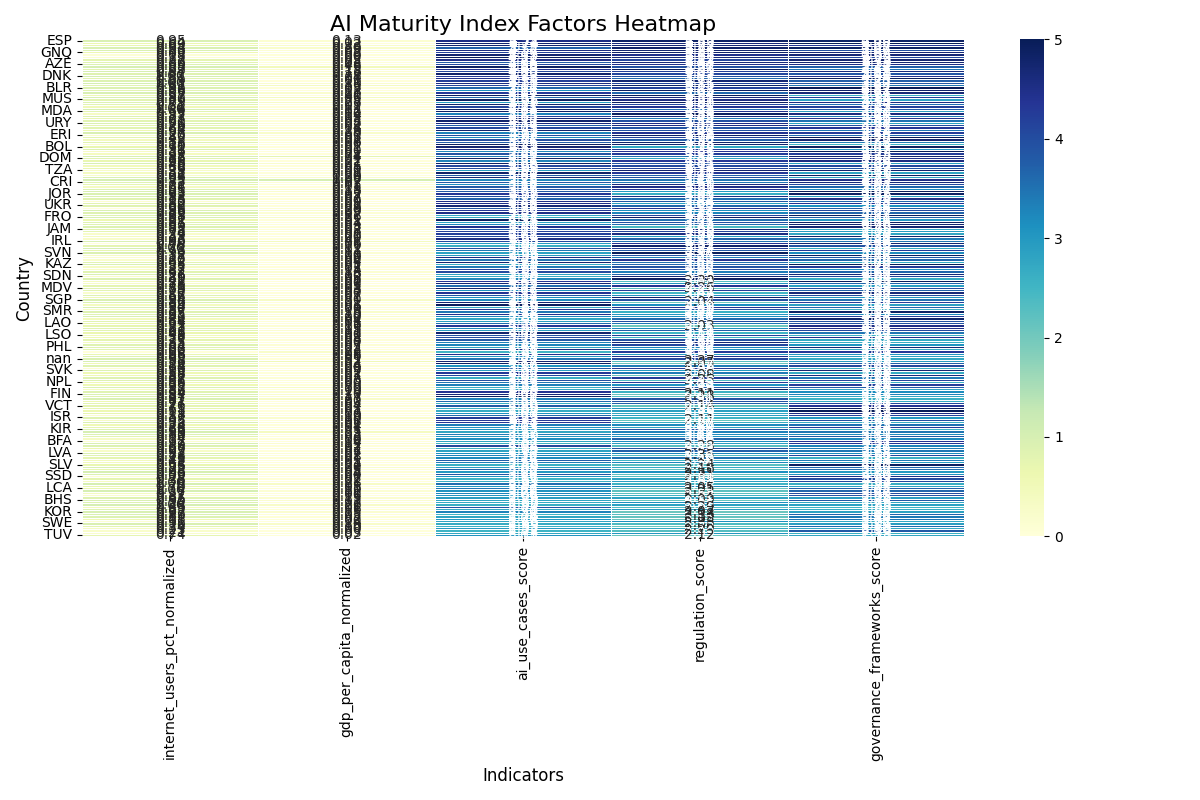
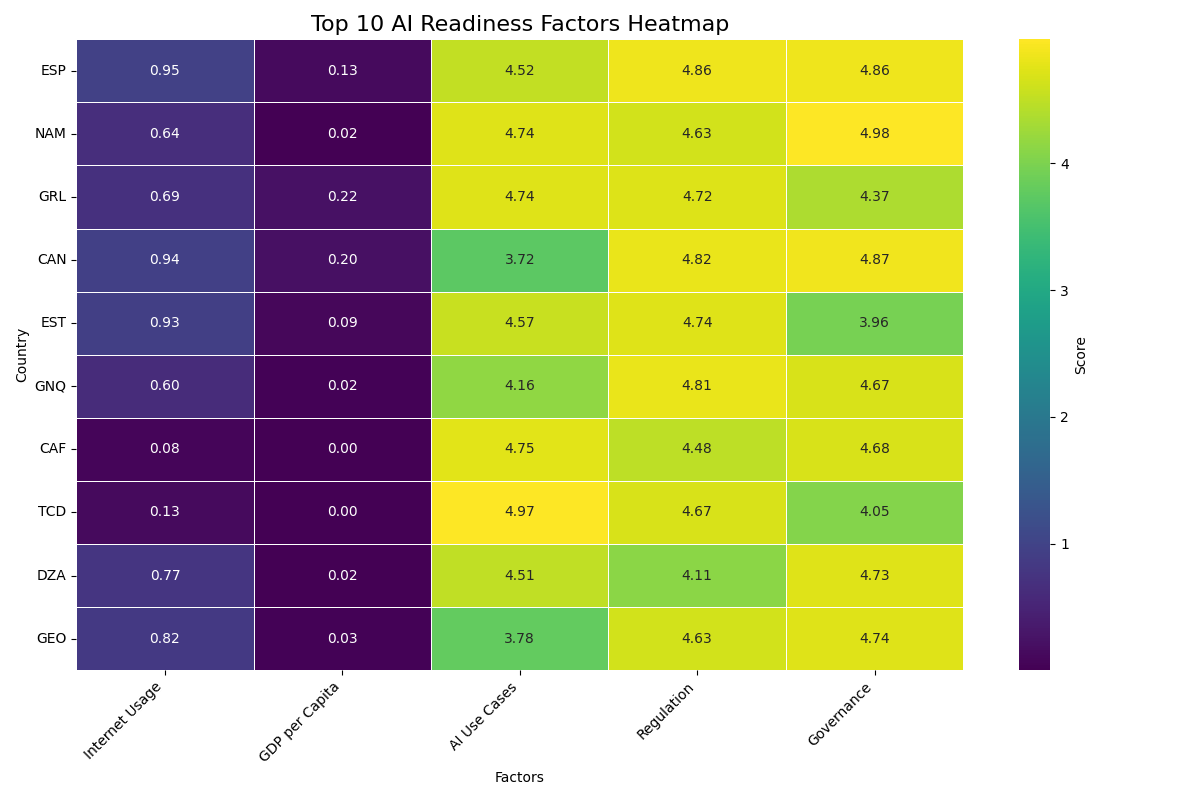
Advance Visualization

diff --git a/scripts/visualize_top10.py b/scripts/visualize_top10.py
@@ -1,0 +1,111 @@
+import pandas as pd
+import matplotlib.pyplot as plt
+import seaborn as sns
+
+def create_bar_chart(df):
+    """
+    Generates a sorted horizontal bar chart of the AI Maturity Index
+    for the top 10 countries. The chart is saved to the 'visuals' directory.
+    """
+    
+    # Sort the data by AI Maturity Index for better readability
+    df_sorted = df.sort_values('ai_maturity_index', ascending=True)
+
+    # Use a smaller figure size for the top 10 countries
+    plt.figure(figsize=(10, 8)) 
+    
+    # Create the horizontal bar chart
+    plt.barh(df_sorted['country_iso'], df_sorted['ai_maturity_index'], color='skyblue')
+    
+    # Set labels and title
+    plt.xlabel('AI Maturity Index Score')
+    plt.ylabel('Country')
+    plt.title('Top 10 AI Maturity Index by Country', fontsize=16)
+    
+    # Add data labels to the bars
+    for index, value in enumerate(df_sorted['ai_maturity_index']):
+        plt.text(value, index, f' {value:.2f}', va='center')
+        
+    # Adjusts plot to ensure everything fits without overlapping
+    plt.tight_layout() 
+    
+    # Save the chart to the visuals folder
+    plt.savefig('visuals/ai_maturity_top_10_bar_chart.png')
+    
+    # Close the plot to free up memory
+    plt.close()
+
+def create_heatmap(df):
+    """
+    Generates a heatmap to show the scores of different factors
+    for the top 10 countries. The chart is saved to the 'visuals' directory.
+    """
+    
+    # Select the relevant columns for the heatmap
+    heatmap_df = df[['country_iso', 
+                     'internet_users_pct_normalized', 
+                     'gdp_per_capita_normalized',
+                     'ai_use_cases_score', 
+                     'regulation_score', 
+                     'governance_frameworks_score']]
+    
+    # Rename columns for a cleaner display on the heatmap
+    heatmap_df.columns = ['Country', 
+                          'Internet Usage', 
+                          'GDP per Capita', 
+                          'AI Use Cases', 
+                          'Regulation', 
+                          'Governance']
+
+    # Set the 'Country' column as the index for the heatmap
+    heatmap_df = heatmap_df.set_index('Country')
+
+    # Use a smaller figure size for the top 10 countries
+    plt.figure(figsize=(12, 8)) 
+    
+    # Create the heatmap
+    sns.heatmap(heatmap_df, annot=True, cmap='viridis', fmt=".2f", linewidths=.5, cbar_kws={'label': 'Score'})
+    
+    # Set title and labels
+    plt.title('Top 10 AI Readiness Factors Heatmap', fontsize=16)
+    plt.xlabel('Factors')
+    plt.ylabel('Country')
+    
+    # Rotate x-axis labels to prevent overlap
+    plt.xticks(rotation=45, ha='right') 
+    
+    # Ensure y-axis labels are horizontal
+    plt.yticks(rotation=0) 
+    
+    # Adjust plot layout
+    plt.tight_layout()
+    
+    # Save the chart to the visuals folder
+    plt.savefig('visuals/ai_maturity_top_10_heatmap.png')
+    
+    # Close the plot
+    plt.close()
+
+if __name__ == "__main__":
+    # Load the processed data
+    try:
+        df = pd.read_csv('data/processed_data/ai_maturity_index.csv')
+    except FileNotFoundError:
+        print("Error: 'ai_maturity_index.csv' not found. Please ensure 'process_data.py' has been run.")
+        exit()
+
+    # Data cleaning and type conversion
+    df = df.dropna(subset=['country_iso'])
+    df['country_iso'] = df['country_iso'].astype(str)
+    
+    # --- Filter the DataFrame to the top 10 countries ---
+    df_top_10 = df.sort_values('ai_maturity_index', ascending=False).head(10)
+
+    # Create the visualizations for the top 10 countries
+    print("Generating bar chart for top 10 countries...")
+    create_bar_chart(df_top_10)
+    
+    print("Generating heatmap for top 10 countries...")
+    create_heatmap(df_top_10)
+    
+    print("Visualizations saved to the 'visuals/' directory.")
